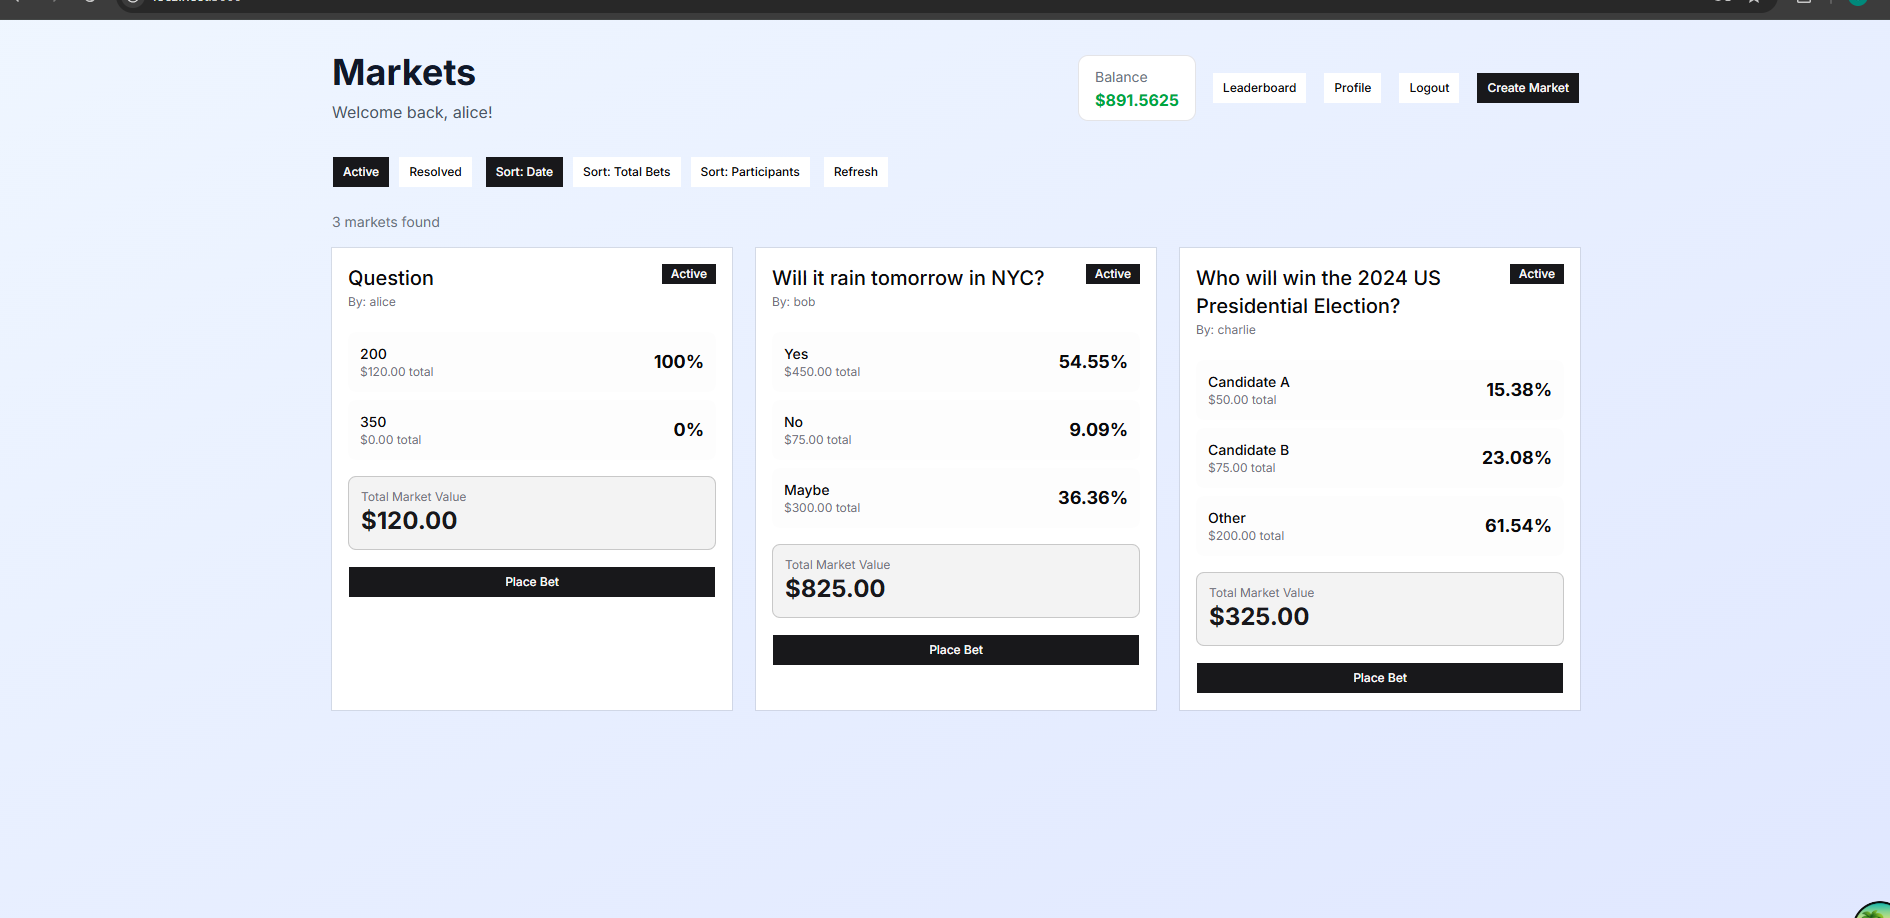
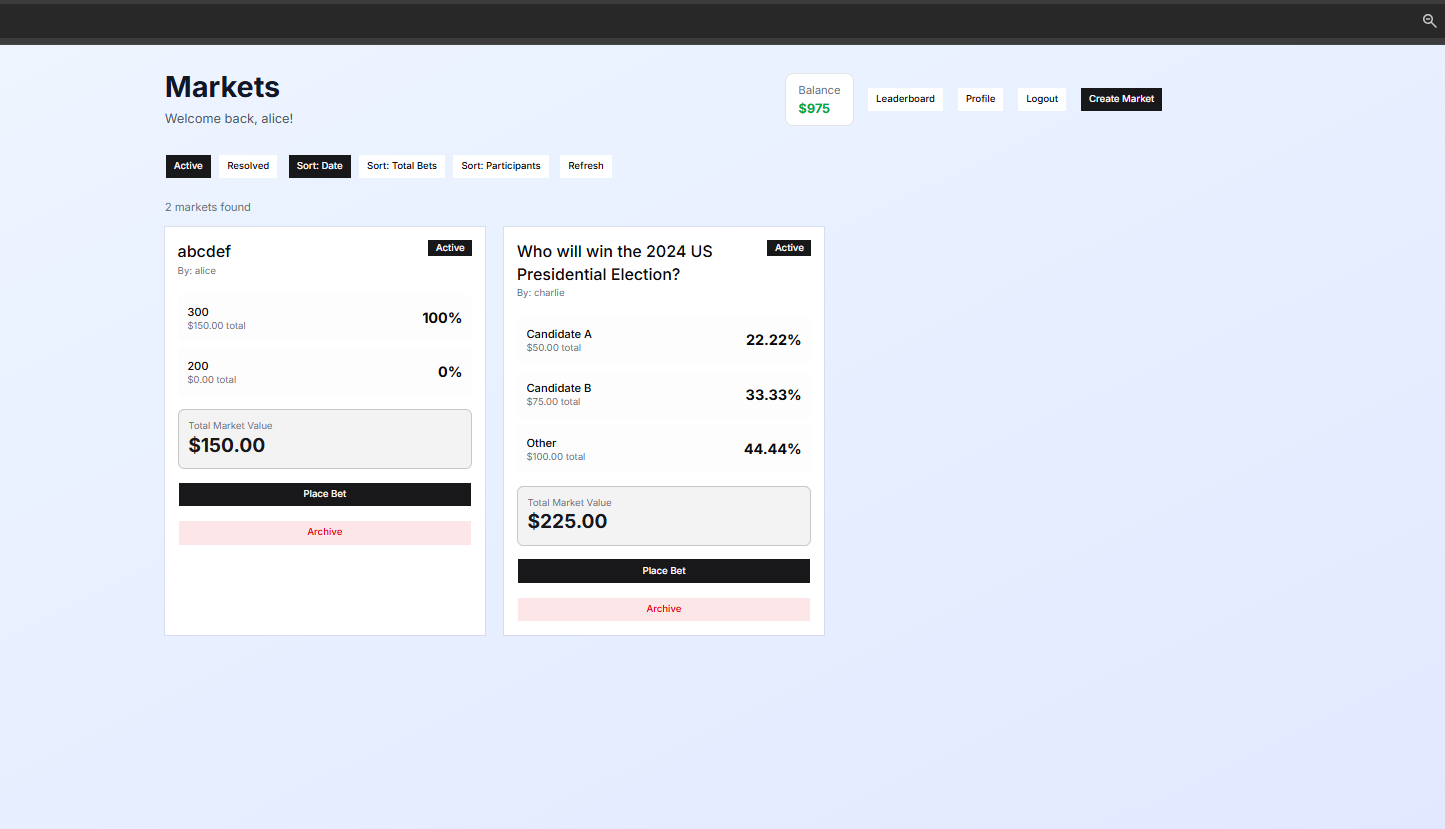
last version

diff --git a/server/src/api/handlers.ts b/server/src/api/handlers.ts
@@ -361,6 +361,11 @@ export async function handlePlaceBet({
     return { error: "Failed to place bet" };
   }
 
+  // Fetch updated balance from database
+  const updatedUser = await db.query.usersTable.findFirst({
+    where: eq(usersTable.id, user.id),
+  });
+
   set.status = 201;
   return {
     id: newBet.id,
@@ -368,7 +373,7 @@ export async function handlePlaceBet({
     marketId: newBet.marketId,
     outcomeId: newBet.outcomeId,
     amount: newBet.amount,
-    newBalance: user.balance - amount,
+    newBalance: updatedUser?.balance ?? user.balance - amount,
   };
 }
 

diff --git a/client/src/routes/index.tsx b/client/src/routes/index.tsx
@@ -162,7 +162,7 @@ function DashboardPage() {
         ) : (
           <div className="grid grid-cols-1 md:grid-cols-2 lg:grid-cols-3 gap-6">
             {markets.map((market) => (
-              <MarketCard key={market.id} market={market} onUpdate={loadMarkets} />
+              <MarketCard key={market.id} market={market} />
             ))}
           </div>
         )}

diff --git a/submission/README.md b/submission/README.md
@@ -2,4 +2,69 @@
 
 ## Short Description
 
+# Submission
+
+## Short Description
+
+A prediction markets web application similar to Polymarket or Kalshi, built on top of the provided starter project.
+
+**Stack:** Bun + Elysia + SQLite + Drizzle ORM (backend), React + TanStack Router + shadcn/ui + Tailwind CSS (frontend)
+
+---
+
+## Features Implemented
+
+- **Task 1 — Main Dashboard:** Sorting by date/total bets/participants, filtering by status, pagination (20/page), real-time updates every 10 seconds
+- **Task 2 — User Profile Page:** Active bets with live odds, resolved bets with won/lost status, separate pagination for each list
+- **Task 3 — Market Detail Page:** Pie chart showing bet distribution per outcome using Recharts
+- **Task 4 — Leaderboard:** Users ranked by total winnings with medal emojis for top 3
+- **Task 5 & 6 — Role System & Admin Resolution:** Admin role via `isAdmin` boolean field, admins can resolve markets or archive them and return funds
+- **Task 7 — Payout Distribution:** Winners receive proportional share of the total bet pool based on their stake
+- **Task 8 — User Balance Tracking:** Users start with $1000, balance deducted on bet, updated in real-time in the header
+- **Bonus — API Key:** Users can generate an API key from their profile and use it programmatically via `Authorization: ApiKey YOUR_KEY`
+
+---
+
+## Design Choices
+
+**Polling for real-time updates:** Used `setInterval` every 10 seconds instead of WebSockets or SSE. Simple, reliable, and sufficient for this use case.
+
+**isAdmin as boolean:** A simple boolean field on the users table instead of a separate roles table — sufficient for a two-role system. The seed file was modified to set alice as admin by default, so no manual setup is required after `bun run db:reset`.
+
+**updateBalance in auth context:** After placing a bet, the balance updates instantly in the header using the `newBalance` value returned by the server, without requiring a page refresh or re-fetch.
+
+**Offset-based pagination:** Simple to implement and sufficient for this dataset size.
+
+---
+
+## Challenges
+
+**Drizzle ORM multiple relations error:** Using `with: { bets: true }` threw a "multiple relations" error due to conflicting relation names in the schema. Solved by fetching bets separately with explicit `where` clauses.
+
+**Real-time balance updates:** After placing a bet, the balance in the header needed to update without a full page reload. Solved by adding an `updateBalance` function to the auth context that updates both React state and localStorage simultaneously, using the `newBalance` value returned directly by the server.
+
+**Balance calculation:** The server was returning `user.balance - amount` using the balance cached in memory from authentication time, which could be stale. Fixed by fetching the updated balance directly from the database after the bet is placed and returning that value instead.
+
+
 ## Images or Video Demo
+![alt text](image.png)
+
+![alt text](image-1.png)
+
+![alt text](image-2.png)
+
+![alt text](image-3.png)
+
+![alt text](image-4.png)
+
+![alt text](image-5.png)
+
+![alt text](image-6.png)
+
+![alt text](image-7.png)
+
+![alt text](image-8.png)
+
+![alt text](image-9.png)
+
+![alt text](image-10.png)
